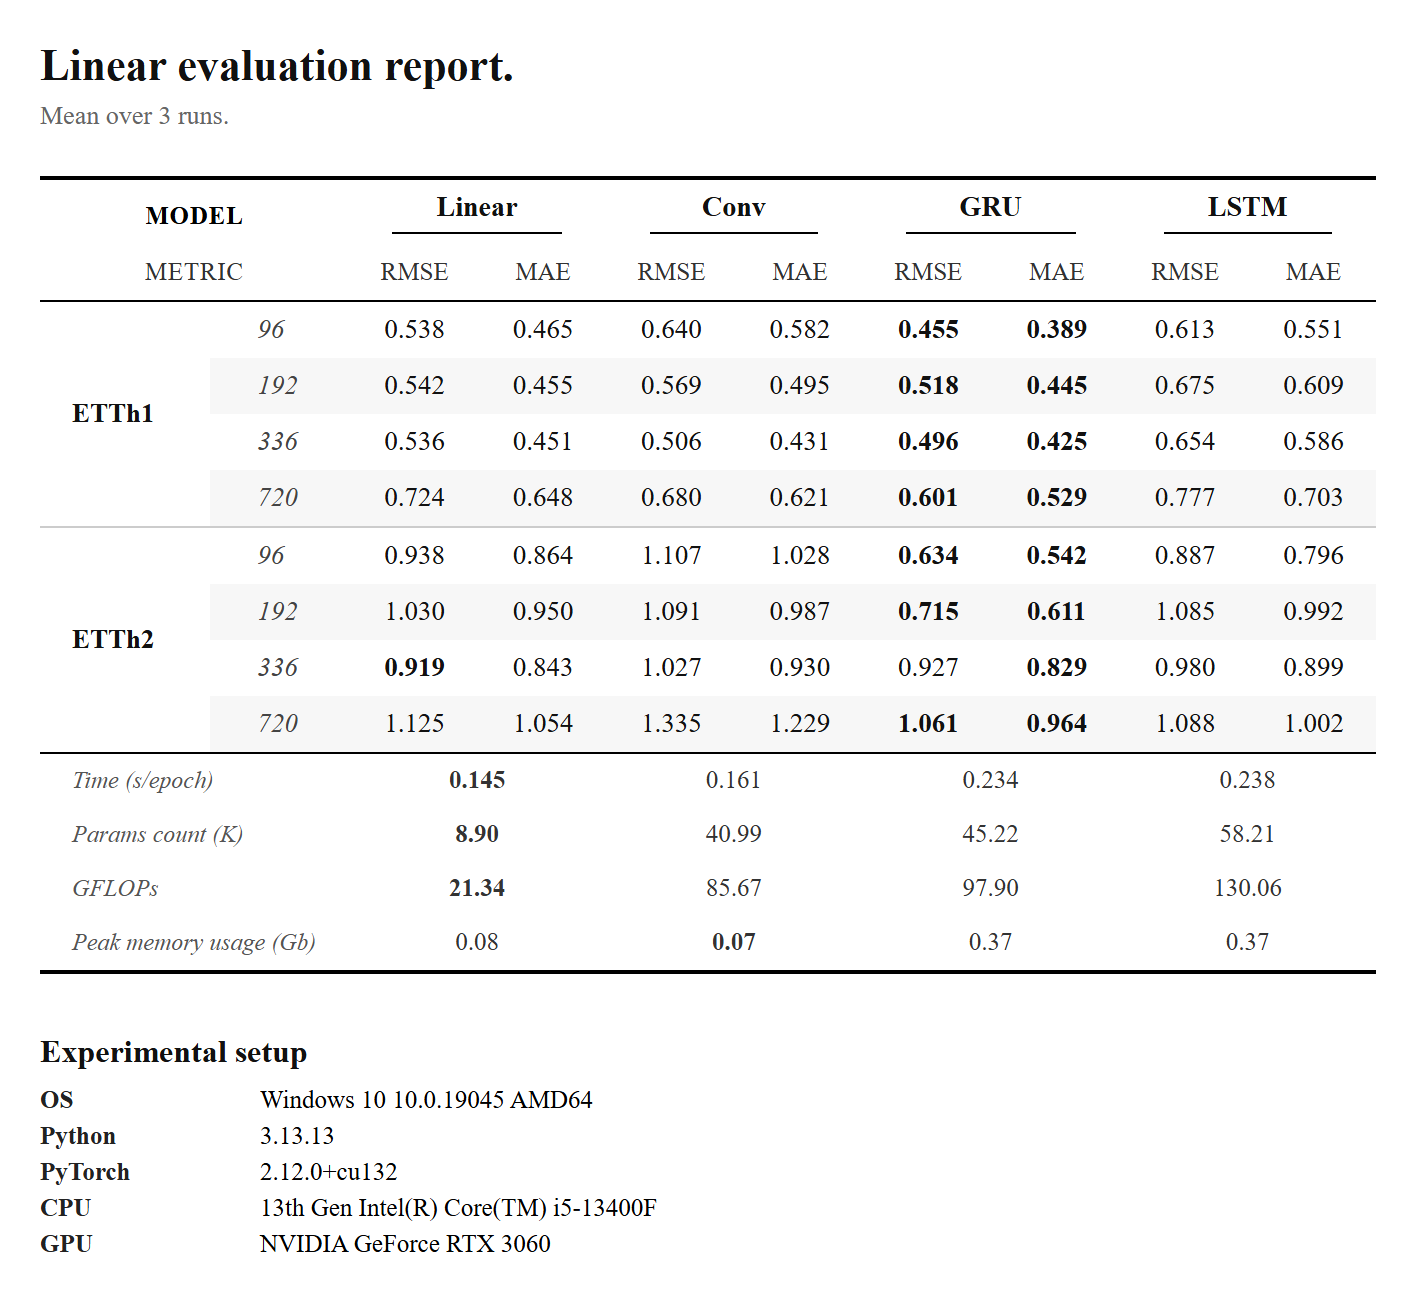
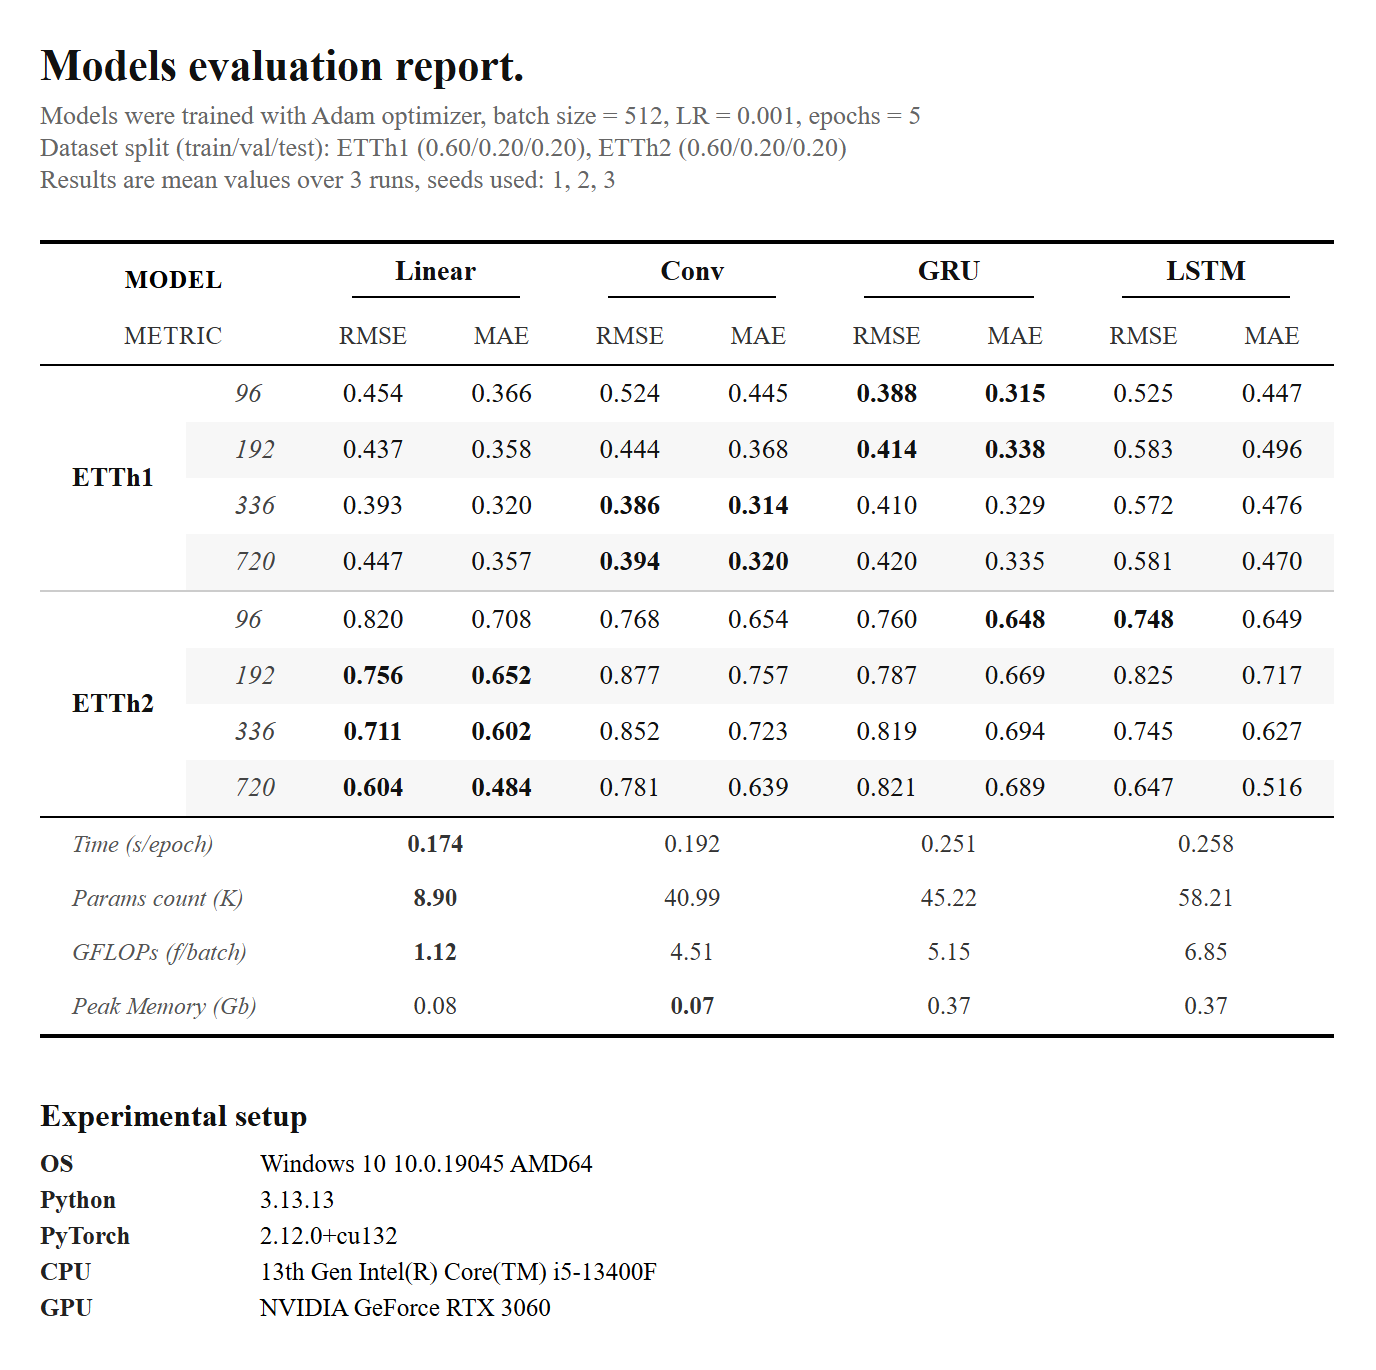
Result assets update

diff --git a/result.html b/result.html
@@ -2,7 +2,7 @@
 <html lang="en">
 <head>
 <meta charset="UTF-8">
-<title>Linear evaluation report.</title>
+<title>Models evaluation report.</title>
 <style>
 
 * {
@@ -199,8 +199,10 @@ tbody.stats tr:first-child th {
 
 <div class="report">
 
-	<div class="title">Linear evaluation report.</div>
-	<div class="subtitle">Mean over 3 runs.</div>
+	<div class="title">Models evaluation report.</div>
+	<div class="subtitle">Models were trained with Adam optimizer, batch size = 512, LR = 0.001, epochs = 5
+Dataset split (train/val/test): ETTh1 (0.60/0.20/0.20), ETTh2 (0.60/0.20/0.20)
+Results are mean values over 3 runs, seeds used: 1, 2, 3</div>
 
 	<table>
 		<thead>
@@ -246,9 +248,9 @@ tbody.stats tr:first-child th {
 				</tr>
 		</thead>
 		<tbody>
-			<tr class=""><th class="dataset-cell" rowspan="4">ETTh1</th><th class="context-cell">96</th><td class="value-cell">0.538</td><td class="value-cell">0.465</td><td class="value-cell">0.640</td><td class="value-cell">0.582</td><td class="value-cell best">0.455</td><td class="value-cell best">0.389</td><td class="value-cell">0.613</td><td class="value-cell">0.551</td></tr><tr class="striped"><th class="context-cell">192</th><td class="value-cell">0.542</td><td class="value-cell">0.455</td><td class="value-cell">0.569</td><td class="value-cell">0.495</td><td class="value-cell best">0.518</td><td class="value-cell best">0.445</td><td class="value-cell">0.675</td><td class="value-cell">0.609</td></tr><tr class=""><th class="context-cell">336</th><td class="value-cell">0.536</td><td class="value-cell">0.451</td><td class="value-cell">0.506</td><td class="value-cell">0.431</td><td class="value-cell best">0.496</td><td class="value-cell best">0.425</td><td class="value-cell">0.654</td><td class="value-cell">0.586</td></tr><tr class="striped"><th class="context-cell">720</th><td class="value-cell">0.724</td><td class="value-cell">0.648</td><td class="value-cell">0.680</td><td class="value-cell">0.621</td><td class="value-cell best">0.601</td><td class="value-cell best">0.529</td><td class="value-cell">0.777</td><td class="value-cell">0.703</td></tr><tr class="dataset-start"><th class="dataset-cell" rowspan="4">ETTh2</th><th class="context-cell">96</th><td class="value-cell">0.938</td><td class="value-cell">0.864</td><td class="value-cell">1.107</td><td class="value-cell">1.028</td><td class="value-cell best">0.634</td><td class="value-cell best">0.542</td><td class="value-cell">0.887</td><td class="value-cell">0.796</td></tr><tr class="striped"><th class="context-cell">192</th><td class="value-cell">1.030</td><td class="value-cell">0.950</td><td class="value-cell">1.091</td><td class="value-cell">0.987</td><td class="value-cell best">0.715</td><td class="value-cell best">0.611</td><td class="value-cell">1.085</td><td class="value-cell">0.992</td></tr><tr class=""><th class="context-cell">336</th><td class="value-cell best">0.919</td><td class="value-cell">0.843</td><td class="value-cell">1.027</td><td class="value-cell">0.930</td><td class="value-cell">0.927</td><td class="value-cell best">0.829</td><td class="value-cell">0.980</td><td class="value-cell">0.899</td></tr><tr class="striped"><th class="context-cell">720</th><td class="value-cell">1.125</td><td class="value-cell">1.054</td><td class="value-cell">1.335</td><td class="value-cell">1.229</td><td class="value-cell best">1.061</td><td class="value-cell best">0.964</td><td class="value-cell">1.088</td><td class="value-cell">1.002</td></tr>
+			<tr class=""><th class="dataset-cell" rowspan="4">ETTh1</th><th class="context-cell">96</th><td class="value-cell">0.454</td><td class="value-cell">0.366</td><td class="value-cell">0.524</td><td class="value-cell">0.445</td><td class="value-cell best">0.388</td><td class="value-cell best">0.315</td><td class="value-cell">0.525</td><td class="value-cell">0.447</td></tr><tr class="striped"><th class="context-cell">192</th><td class="value-cell">0.437</td><td class="value-cell">0.358</td><td class="value-cell">0.444</td><td class="value-cell">0.368</td><td class="value-cell best">0.414</td><td class="value-cell best">0.338</td><td class="value-cell">0.583</td><td class="value-cell">0.496</td></tr><tr class=""><th class="context-cell">336</th><td class="value-cell">0.393</td><td class="value-cell">0.320</td><td class="value-cell best">0.386</td><td class="value-cell best">0.314</td><td class="value-cell">0.410</td><td class="value-cell">0.329</td><td class="value-cell">0.572</td><td class="value-cell">0.476</td></tr><tr class="striped"><th class="context-cell">720</th><td class="value-cell">0.447</td><td class="value-cell">0.357</td><td class="value-cell best">0.394</td><td class="value-cell best">0.320</td><td class="value-cell">0.420</td><td class="value-cell">0.335</td><td class="value-cell">0.581</td><td class="value-cell">0.470</td></tr><tr class="dataset-start"><th class="dataset-cell" rowspan="4">ETTh2</th><th class="context-cell">96</th><td class="value-cell">0.820</td><td class="value-cell">0.708</td><td class="value-cell">0.768</td><td class="value-cell">0.654</td><td class="value-cell">0.760</td><td class="value-cell best">0.648</td><td class="value-cell best">0.748</td><td class="value-cell">0.649</td></tr><tr class="striped"><th class="context-cell">192</th><td class="value-cell best">0.756</td><td class="value-cell best">0.652</td><td class="value-cell">0.877</td><td class="value-cell">0.757</td><td class="value-cell">0.787</td><td class="value-cell">0.669</td><td class="value-cell">0.825</td><td class="value-cell">0.717</td></tr><tr class=""><th class="context-cell">336</th><td class="value-cell best">0.711</td><td class="value-cell best">0.602</td><td class="value-cell">0.852</td><td class="value-cell">0.723</td><td class="value-cell">0.819</td><td class="value-cell">0.694</td><td class="value-cell">0.745</td><td class="value-cell">0.627</td></tr><tr class="striped"><th class="context-cell">720</th><td class="value-cell best">0.604</td><td class="value-cell best">0.484</td><td class="value-cell">0.781</td><td class="value-cell">0.639</td><td class="value-cell">0.821</td><td class="value-cell">0.689</td><td class="value-cell">0.647</td><td class="value-cell">0.516</td></tr>
 		</tbody>
-		<tbody class="stats"><tr class="stats-row"><th class="stats-label" colspan="2">Time (s/epoch)</th><td class="stats-value best" colspan="2">0.145</td><td class="stats-value" colspan="2">0.161</td><td class="stats-value" colspan="2">0.234</td><td class="stats-value" colspan="2">0.238</td></tr><tr class="stats-row"><th class="stats-label" colspan="2">Params count (K)</th><td class="stats-value best" colspan="2">8.90</td><td class="stats-value" colspan="2">40.99</td><td class="stats-value" colspan="2">45.22</td><td class="stats-value" colspan="2">58.21</td></tr><tr class="stats-row"><th class="stats-label" colspan="2">GFLOPs</th><td class="stats-value best" colspan="2">21.34</td><td class="stats-value" colspan="2">85.67</td><td class="stats-value" colspan="2">97.90</td><td class="stats-value" colspan="2">130.06</td></tr><tr class="stats-row"><th class="stats-label" colspan="2">Peak memory usage (Gb)</th><td class="stats-value" colspan="2">0.08</td><td class="stats-value best" colspan="2">0.07</td><td class="stats-value" colspan="2">0.37</td><td class="stats-value" colspan="2">0.37</td></tr></tbody>
+		<tbody class="stats"><tr class="stats-row"><th class="stats-label" colspan="2">Time (s/epoch)</th><td class="stats-value best" colspan="2">0.174</td><td class="stats-value" colspan="2">0.192</td><td class="stats-value" colspan="2">0.251</td><td class="stats-value" colspan="2">0.258</td></tr><tr class="stats-row"><th class="stats-label" colspan="2">Params count (K)</th><td class="stats-value best" colspan="2">8.90</td><td class="stats-value" colspan="2">40.99</td><td class="stats-value" colspan="2">45.22</td><td class="stats-value" colspan="2">58.21</td></tr><tr class="stats-row"><th class="stats-label" colspan="2">GFLOPs (f/batch)</th><td class="stats-value best" colspan="2">1.12</td><td class="stats-value" colspan="2">4.51</td><td class="stats-value" colspan="2">5.15</td><td class="stats-value" colspan="2">6.85</td></tr><tr class="stats-row"><th class="stats-label" colspan="2">Peak Memory (Gb)</th><td class="stats-value" colspan="2">0.08</td><td class="stats-value best" colspan="2">0.07</td><td class="stats-value" colspan="2">0.37</td><td class="stats-value" colspan="2">0.37</td></tr></tbody>
 	</table>
 
 	<div class="metadata">
